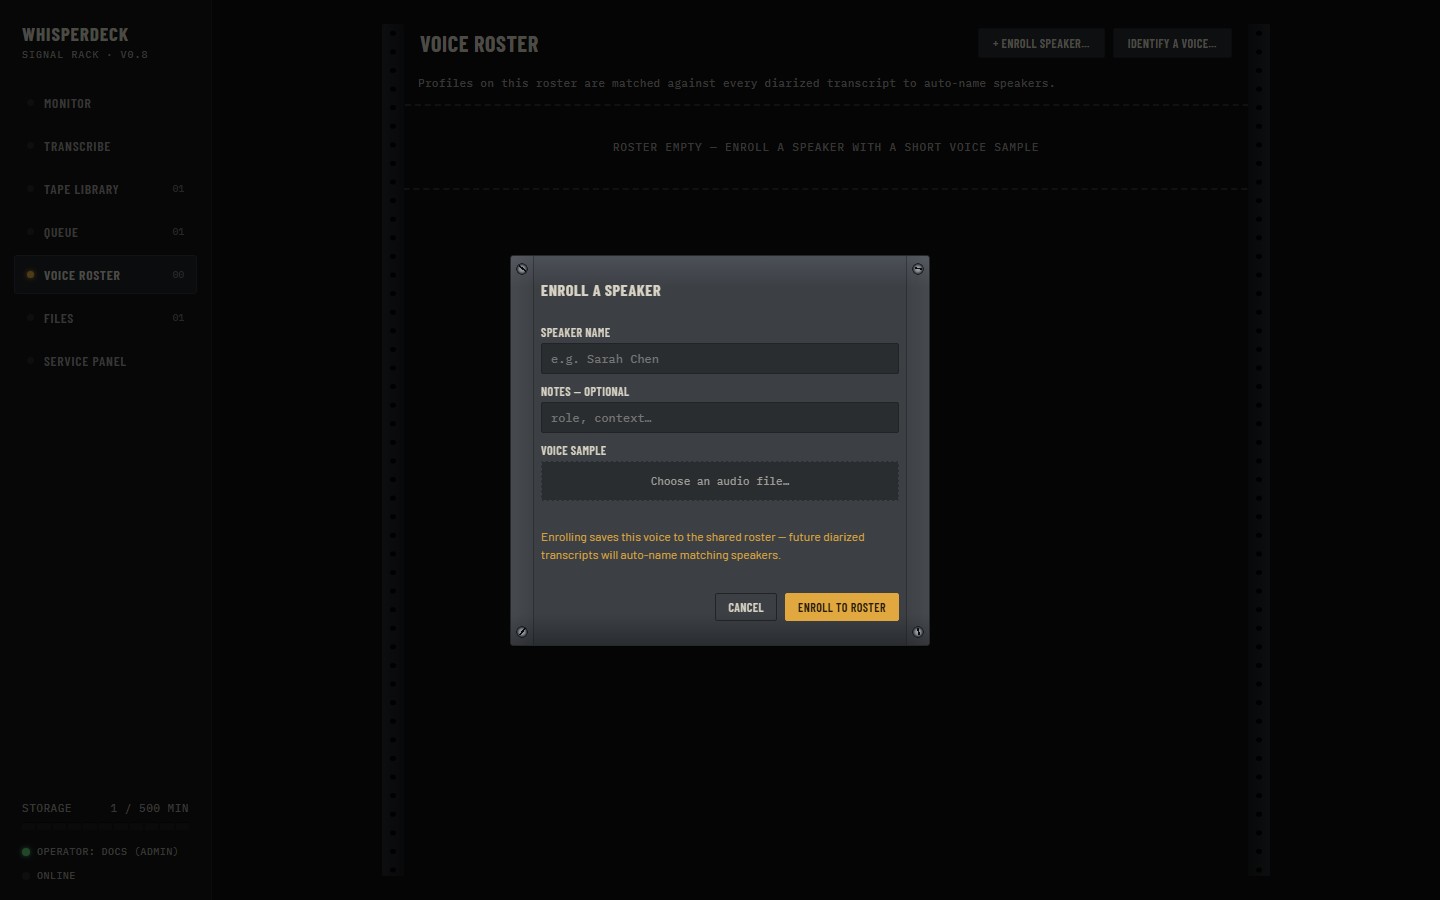
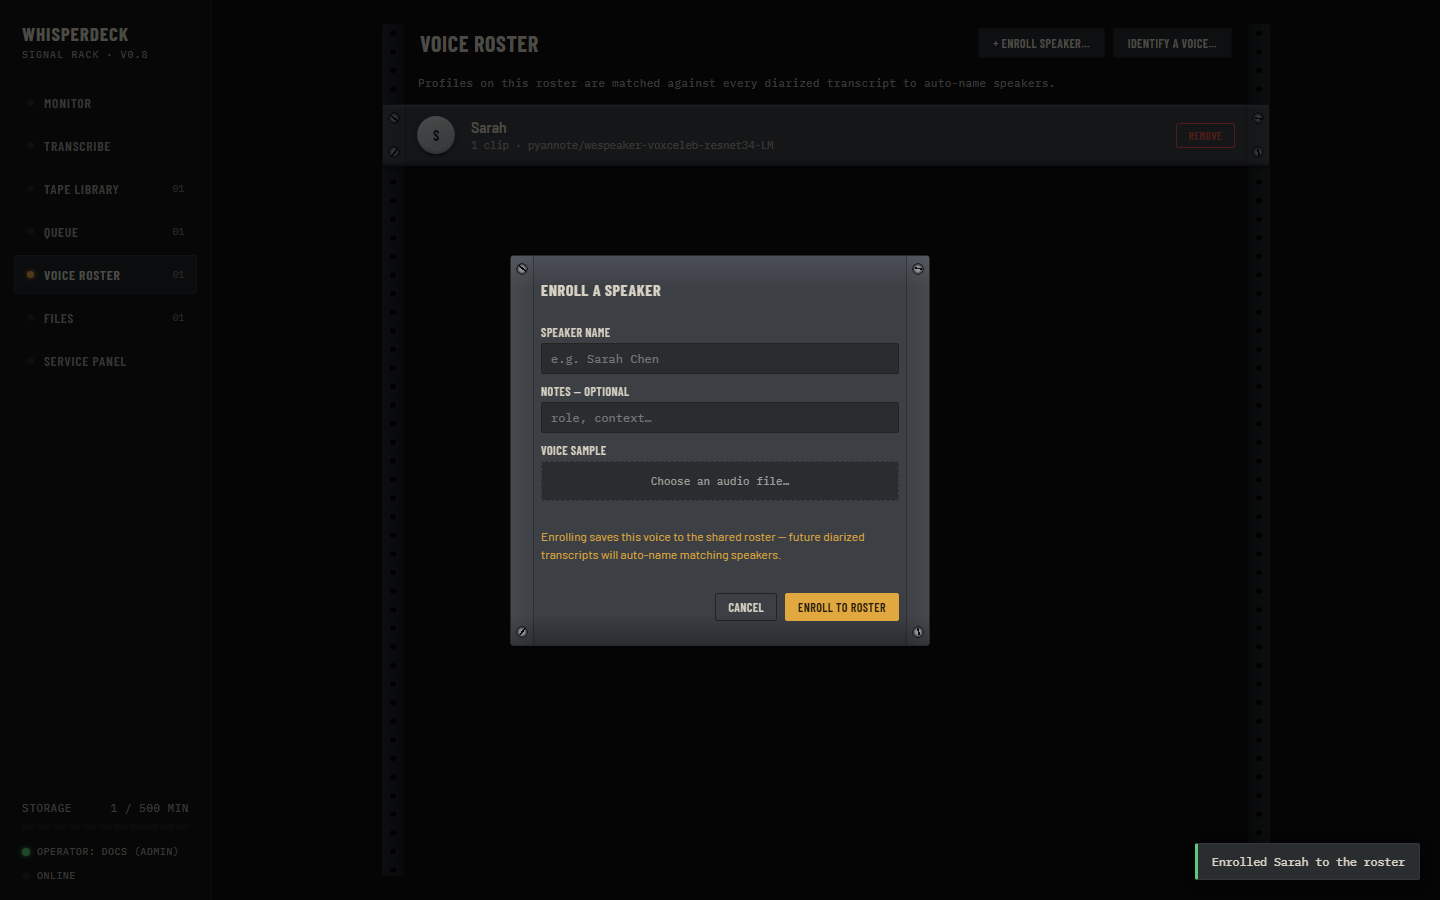
fix: enroll a real speaker for 13-enroll-speaker, get a genuine diff for 15-version-compare
- 13-enroll-speaker.png: script now enrolls a speaker (Sarah, real voice
  sample) before capturing, so the roster behind the modal is populated
  instead of empty
- 15-version-compare.png: the rerun picker's model <select> is populated
  asynchronously and was still showing a "Loading…" placeholder when the
  script read it, so the rerun's correction job silently used a bogus
  model string and failed - leaving only one completed run, hence the
  compare view was a self-diff with no highlighted changes. Wait for a
  real <option value="..."> before submitting (wait_for_function, not
  wait_for_selector - Playwright treats <option> elements as never
  "visible" outside an open dropdown, so a selector-based wait always
  times out)
- fix a pre-existing bug in poll_transcript/poll_correction_done: both
  waited for job/transcript status "done", which the API never returns
  (real terminal values are "completed"/"failed"/"cancelled") - every
  poll call was silently running out its full timeout instead of
  returning as soon as the job finished

diff --git a/scripts/capture_screenshots.py b/scripts/capture_screenshots.py
@@ -253,7 +253,7 @@ def poll_correction_done(tid, timeout=90):
     while time.time() < deadline_:
         last = api("GET", f"/api/transcripts/{tid}")
         job = last.get("correction_job")
-        if job and job.get("status") in ("done", "failed"):
+        if job and job.get("status") in ("completed", "failed"):
             return last
         time.sleep(1)
     return last
@@ -326,7 +326,7 @@ with sync_playwright() as p:
     # 4. Wait for transcription to finish, then open the transcript detail view
     initial_status = api("GET", "/api/transcripts")
     tid = initial_status[0]["id"]
-    poll_transcript(tid, {"done", "failed"}, timeout=150)
+    poll_transcript(tid, {"completed", "failed"}, timeout=150)
     pg.wait_for_selector("#key-open-done:not([disabled])", timeout=150000)
     pg.locator("#key-open-done").click()
     pg.wait_for_selector('[id^="page-"].active', timeout=10000)
@@ -357,11 +357,34 @@ with sync_playwright() as p:
     pg.screenshot(path=os.path.join(OUT_DIR, "05-corrected.png"))
     print("Captured: 05-corrected.png")
 
-    # 7. Re-run correction to get a second version, then open the compare modal
+    # 7. Re-run correction (same model, deliberately not the blind "rerun"
+    #    button - that only opens the picker) to get a second, genuinely
+    #    distinct version. NOT switching models here: the /api/correction-models
+    #    local_llm list is every model Lemonade reports, unfiltered for chat/JSON
+    #    output support, and several (e.g. small/non-instruct quantizations)
+    #    fail the correction pass's structured-output parsing. The stock
+    #    model at temperature 0.2 (services/llm_client.py) already varies
+    #    run-to-run, which is enough for the diff view to show real changes.
     rerun_btn = pg.locator('[data-dact="rerun"]')
     if rerun_btn.count() > 0 and rerun_btn.first.is_enabled():
         rerun_btn.first.click()
-        poll_correction_done(tid, timeout=90)
+        # #rerun-model exists the instant the picker opens, but its options
+        # are still a placeholder "Loading…" until the async
+        # /api/correction-models/local_llm fetch resolves - wait for a real
+        # <option value="..."> before reading it. wait_for_function (not
+        # wait_for_selector) because Playwright's actionability check treats
+        # <option> elements as never "visible" (no bounding box outside an
+        # open dropdown), so a selector-based wait always times out.
+        pg.wait_for_function("""() => {
+            const sel = document.getElementById('rerun-model');
+            return sel && sel.options.length > 0 && sel.options[0].hasAttribute('value');
+        }""", timeout=10000)
+        pg.locator("#rerun-go").click()
+        second_run = poll_correction_done(tid, timeout=90)
+        if second_run and (second_run.get("correction_job") or {}).get("status") != "completed":
+            print("WARNING: second correction run did not complete (status="
+                  + str((second_run.get("correction_job") or {}).get("status")) + ") - "
+                  "15-version-compare.png will only have one completed run to show")
         pg.wait_for_timeout(500)
     pg.locator('[data-dact="correction-history"]').click()
     pg.wait_for_selector("#modal-overlay.open", timeout=10000)
@@ -391,15 +414,28 @@ with sync_playwright() as p:
     pg.screenshot(path=os.path.join(OUT_DIR, "12-file-inventory.png"))
     print("Captured: 12-file-inventory.png")
 
-    # 11. Voice Roster + Enroll modal (unchanged from before)
+    # 11. Voice Roster: enroll one speaker first so the roster isn't empty,
+    #     then reopen the Enroll modal for the screenshot - it shows both the
+    #     populated roster in the background and the enroll workflow itself.
     pg.evaluate("navigate('voices')")
-    pg.wait_for_timeout(2000)
+    pg.wait_for_timeout(1000)
     enroll_btn = pg.locator("#voice-enroll-btn")
     if enroll_btn.count() > 0:
         enroll_btn.first.click()
-        pg.wait_for_timeout(1500)
+        pg.wait_for_selector("#enroll-name", state="visible", timeout=5000)
+        pg.fill("#enroll-name", "Sarah")
+        with pg.expect_file_chooser() as fc_info:
+            pg.locator("#enroll-file-btn").click()
+        fc_info.value.set_files(SHORT_AUDIO)
+        pg.wait_for_timeout(300)
+        pg.locator("#enroll-go").click()
+        pg.wait_for_timeout(1500)  # POST /api/voices/enroll + roster refresh
+
+        enroll_btn.first.click()  # reopen for the screenshot itself
+        pg.wait_for_selector("#enroll-name", state="visible", timeout=5000)
+        pg.wait_for_timeout(500)
         pg.screenshot(path=os.path.join(OUT_DIR, "13-enroll-speaker.png"))
-        print("Captured: 13-enroll-speaker.png")
+        print("Captured: 13-enroll-speaker.png (roster populated, modal open for a second enrollment)")
         pg.keyboard.press("Escape")
         pg.wait_for_timeout(300)
 
@@ -413,7 +449,7 @@ with sync_playwright() as p:
     pg.locator("#key-play-a").click()
     all_transcripts = api("GET", "/api/transcripts")
     video_tid = max((row["id"] for row in all_transcripts), default=tid)
-    poll_transcript(video_tid, {"done", "failed"}, timeout=90)
+    poll_transcript(video_tid, {"completed", "failed"}, timeout=90)
     pg.wait_for_selector("#key-open-done:not([disabled])", timeout=90000)
     pg.locator("#key-open-done").click()
     pg.wait_for_timeout(1200)
